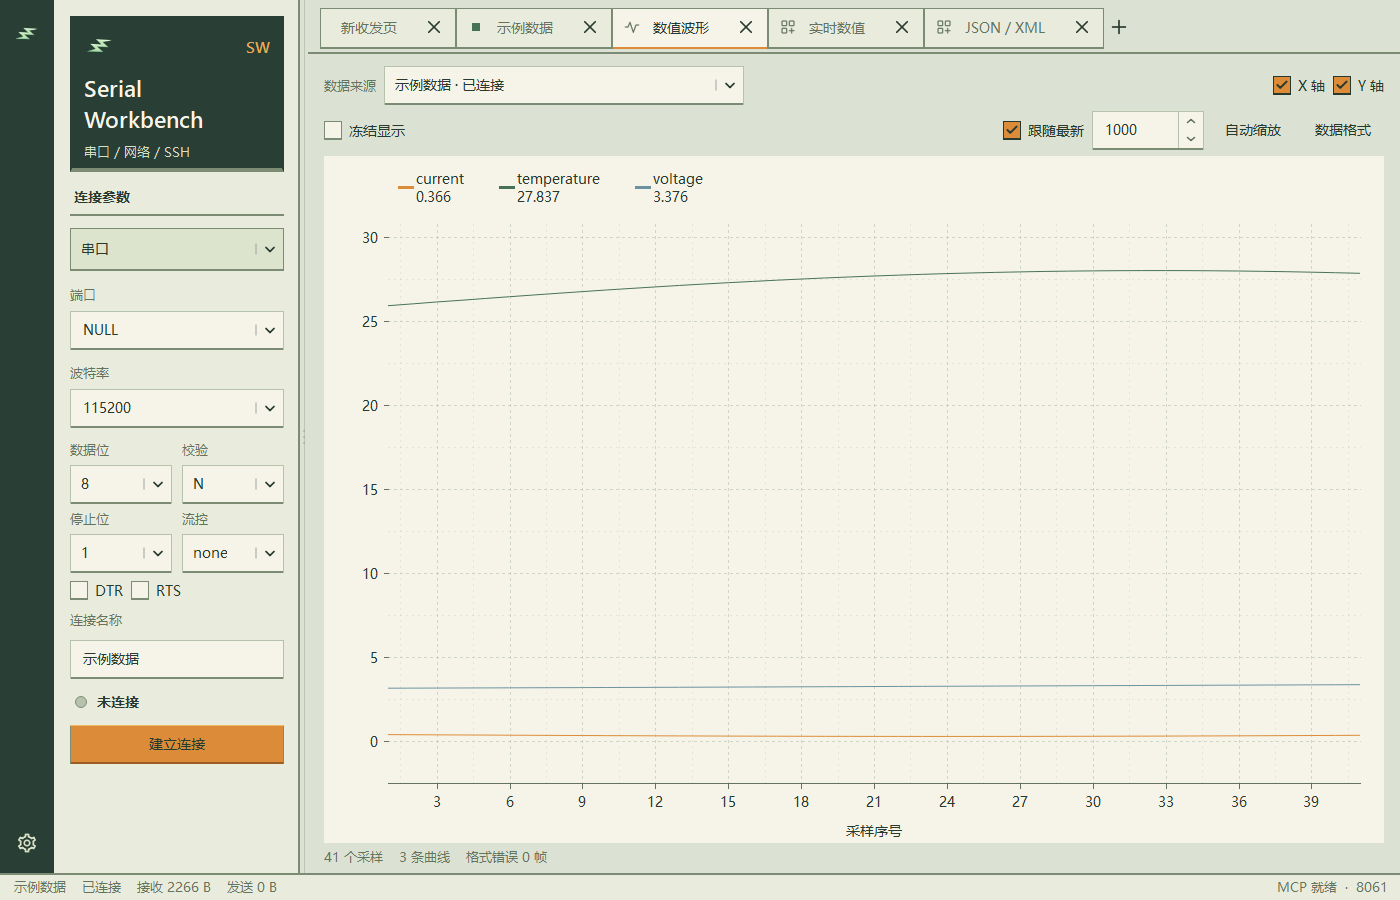
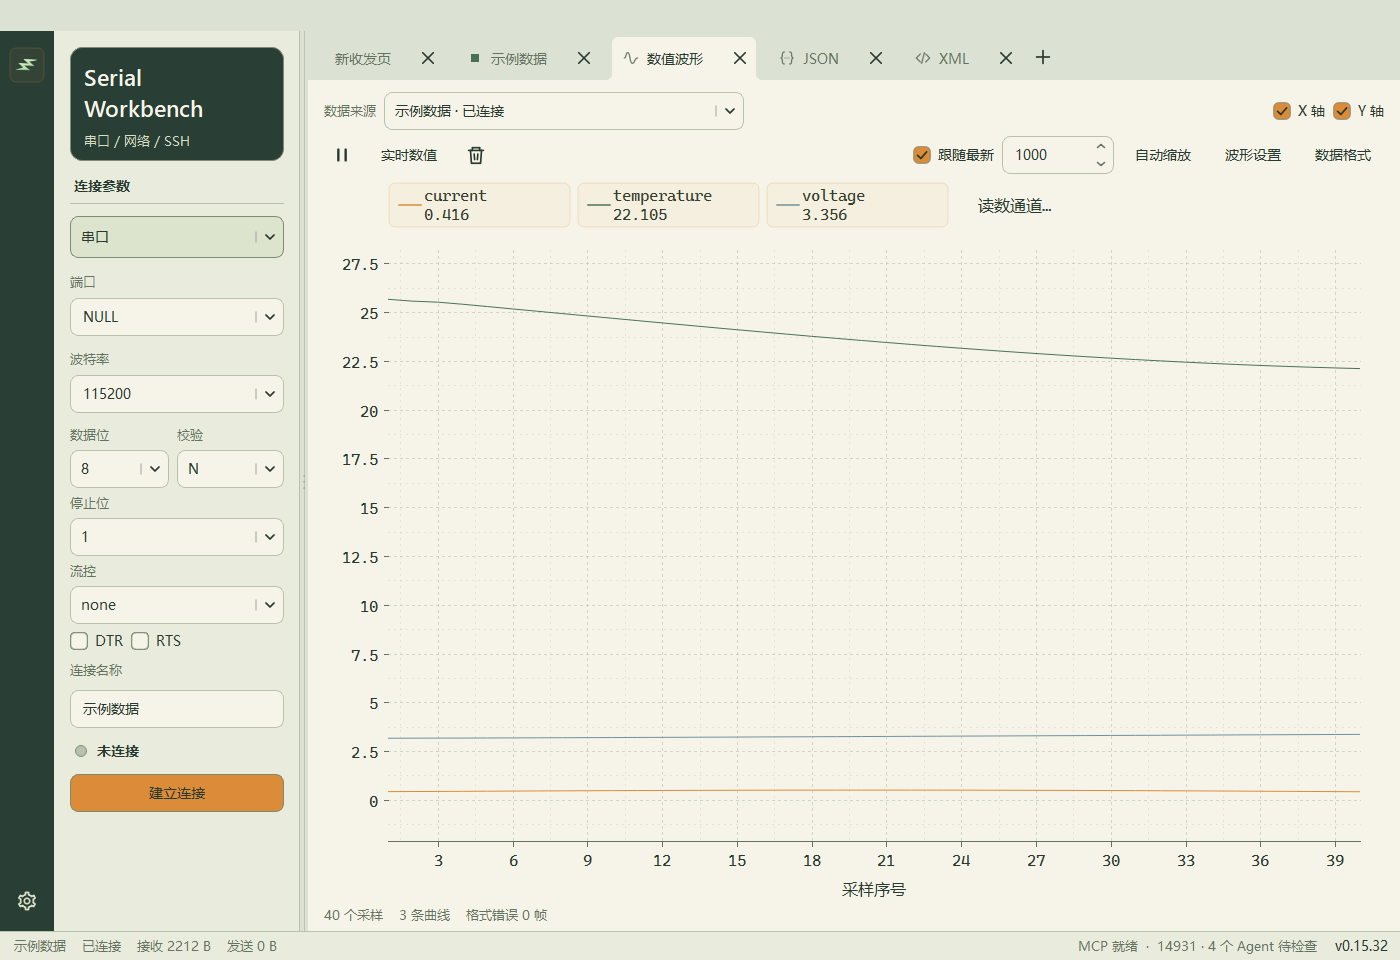
Clarify website branding and stabilize glass pointer effects

diff --git a/deploy/website/site/assets/site.css b/deploy/website/site/assets/site.css
@@ -56,6 +56,7 @@ svg.icon { width: 20px; height: 20px; fill: none; stroke: currentColor; stroke-w
 .header-inner { width: calc(100% - 48px); min-height: 76px; display: flex; align-items: center; gap: 38px; }
 .brand { display: inline-flex; align-items: center; gap: 12px; flex-shrink: 0; }
 .brand img { width: 32px; height: 32px; }
+[data-theme="dark"] .brand img { filter: brightness(1.75) saturate(.8); }
 .brand-text { display: flex; align-items: center; gap: 14px; font-family: "Bahnschrift", "Segoe UI", sans-serif; font-size: 27px; font-weight: 650; letter-spacing: -.8px; }
 .brand-text small { color: var(--muted); font: 12px "Microsoft YaHei UI", sans-serif; letter-spacing: 1px; border-left: 1px solid var(--line); padding-left: 14px; }
 .desktop-nav { display: flex; align-items: center; gap: 8px; margin-left: auto; }
@@ -86,24 +87,24 @@ h1, h2, h3 { line-height: 1.45; }
 .hero-tags span + span { border-left: 1px solid var(--line); padding-left: 18px; }
 .glass { border: 1px solid var(--glass-edge); background: linear-gradient(135deg, rgb(255 255 255 / .5), rgb(255 255 255 / .12)); box-shadow: var(--glass-shadow); backdrop-filter: blur(22px) saturate(135%); -webkit-backdrop-filter: blur(22px) saturate(135%); }
 [data-theme="dark"] .glass { background: linear-gradient(135deg, rgb(114 153 192 / .2), rgb(40 66 95 / .12)); }
-.lab-stage { --tilt-x: 0deg; --tilt-y: 0deg; position: relative; width: 100%; aspect-ratio: 600 / 560; min-width: 0; perspective: 1100px; transform: rotateX(var(--tilt-x)) rotateY(var(--tilt-y)); transition: transform .3s ease-out; }
-.lab-halo { position: absolute; width: 77%; height: 77%; left: 15%; top: 10%; background: radial-gradient(circle at 50% 50%, rgb(255 255 255 / .85), rgb(161 191 215 / .35) 45%, transparent 70%); border-radius: 50%; filter: blur(15px); }
+.lab-stage { position: relative; width: 100%; aspect-ratio: 600 / 560; min-width: 0; }
+.lab-halo { position: absolute; width: 77%; height: 77%; left: 15%; top: 10%; background: radial-gradient(circle, rgb(255 255 255 / .85), rgb(115 167 215 / .32) 45%, transparent 70%); border-radius: 50%; transform: translate(var(--glow-x, 0px), var(--glow-y, 0px)); transition: transform .18s ease-out; pointer-events: none; }
 [data-theme="dark"] .lab-halo { opacity: .22; }
-.lab-ring { position: absolute; width: 74%; aspect-ratio: 1; left: 18%; top: 11%; border-radius: 50%; border: 1px solid var(--glass-edge); box-shadow: 0 0 0 18px rgb(255 255 255 / .04), 0 0 0 19px var(--line); transform: rotateX(28deg) rotateY(-17deg); }
+.lab-ring { position: absolute; width: 74%; aspect-ratio: 1; left: 18%; top: 11%; border-radius: 50%; border: 1px solid var(--glass-edge); box-shadow: 0 0 0 18px rgb(255 255 255 / .04), 0 0 0 19px var(--line); transform: translate(var(--ring-x, 0px), var(--ring-y, 0px)) scaleY(.94); transition: transform .18s ease-out; pointer-events: none; }
 .lab-circuit { position: absolute; width: 100%; height: 100%; inset: 0; overflow: visible; }
 .lab-circuit circle { stroke: var(--blue); fill: var(--paper); opacity: .55; }
 .circuit-muted { stroke: var(--line); stroke-width: 1; }
 .circuit-signal { stroke: var(--blue); opacity: .35; stroke-width: 2; }
 .lab-slab { position: absolute; left: 12%; top: 17%; width: 59%; height: 63%; border-radius: 34px; transform: rotate(-12deg) skewY(3deg); background: linear-gradient(125deg, rgb(255 255 255 / .58), rgb(190 208 229 / .12)); }
-.lab-slab::before { content: ""; position: absolute; inset: 0; border-radius: inherit; background: radial-gradient(ellipse at var(--light-x, 25%) var(--light-y, 10%), rgb(255 255 255 / .5), transparent 65%); opacity: .6; pointer-events: none; }
+.lab-slab::before { content: ""; position: absolute; inset: 0; border-radius: inherit; background: radial-gradient(ellipse at var(--light-x, 25%) var(--light-y, 10%), rgb(255 255 255 / .95), rgb(77 143 207 / .25) 35%, transparent 65%); opacity: .8; pointer-events: none; }
 .lab-slab::after { content: ""; position: absolute; inset: 10px; border: 1px solid var(--glass-edge); opacity: .5; border-radius: 26px; }
 .slab-caption { position: absolute; top: 25px; left: 26px; font-size: 11px; color: var(--muted); letter-spacing: 2px; }
 .slab-mark { position: absolute; bottom: 22px; right: 26px; font: 12px "Bahnschrift", sans-serif; color: var(--muted); }
 .slab-contact { position: absolute; width: 8px; height: 8px; border-radius: 50%; border: 1px solid var(--accent); box-shadow: inset 0 1px 2px #fff6; }
 .contact-one { bottom: 26px; left: 24px; }
 .contact-two { top: 26px; right: 24px; }
-.lab-chip { position: absolute; left: 9%; top: 39%; width: 27%; aspect-ratio: 1; transform: rotate(-7deg); filter: drop-shadow(0 24px 20px #24476f28); }
-.chip-core { position: absolute; inset: 10px; border-radius: 18px; border: 1px solid #66819b; background: linear-gradient(140deg, #40576a, #1c3147 80%); box-shadow: inset 1px 1px 1px #b2c5d688, inset -2px -2px 2px #0e203f99; color: #f3f7fc; display: flex; flex-direction: column; align-items: center; justify-content: center; }
+.lab-chip { position: absolute; left: 9%; top: 39%; width: 27%; aspect-ratio: 1; }
+.chip-core { position: absolute; inset: 10px; border-radius: 18px; border: 1px solid #66819b; background: linear-gradient(140deg, #40576a, #1c3147 80%); box-shadow: inset 1px 1px 1px #b2c5d688, inset -2px -2px 2px #0e203f99, 0 20px 28px #24476f28; color: #f3f7fc; display: flex; flex-direction: column; align-items: center; justify-content: center; }
 .chip-core svg { width: 29px; height: 29px; margin-bottom: 6px; color: #bed4df; }
 .chip-core strong { font: 600 clamp(17px, 2vw, 28px) "Bahnschrift", sans-serif; letter-spacing: -.5px; }
 .chip-core small { font-size: 9px; color: #bfd1df; margin-top: 8px; letter-spacing: 1px; }
@@ -112,7 +113,7 @@ h1, h2, h3 { line-height: 1.45; }
 .pins-top { top: 0; }.pins-bottom { bottom: 0; }
 .pins-left, .pins-right { top: 24px; bottom: 24px; width: 12px; background: repeating-linear-gradient(0deg, #859bad 0 4px, transparent 4px 14px); }
 .pins-left { left: 0; }.pins-right { right: 0; }
-.lab-wave { position: absolute; left: 35%; top: 23%; width: 63%; border-radius: 24px; padding: 18px 20px 14px; transform: rotate(4deg); background: linear-gradient(140deg, rgb(255 255 255 / .76), rgb(255 255 255 / .27)); }
+.lab-wave { position: absolute; left: 35%; top: 23%; width: 63%; border-radius: 24px; padding: 18px 20px 14px; background: linear-gradient(140deg, rgb(255 255 255 / .84), rgb(255 255 255 / .48)); backdrop-filter: none; -webkit-backdrop-filter: none; }
 .wave-heading { display: flex; justify-content: space-between; align-items: center; gap: 8px; margin-bottom: 18px; font-size: 12px; }
 .wave-heading > span { display: flex; align-items: center; gap: 7px; }
 .wave-heading i { width: 5px; height: 5px; background: var(--blue); border-radius: 50%; }
@@ -120,14 +121,18 @@ h1, h2, h3 { line-height: 1.45; }
 .lab-wave > svg { display: block; width: 100%; }
 .wave-grid { stroke: var(--line); stroke-width: .8; }
 .wave-line { stroke: var(--blue); stroke-width: 2.4; stroke-linecap: round; }
-.wave-caption { margin-top: 12px; display: flex; justify-content: space-between; gap: 8px; color: var(--muted); font-size: 9px; }
-.lab-packet { position: absolute; width: 48%; left: 41%; top: 70%; padding: 17px 22px; border-radius: 19px; transform: rotate(-4deg); background: linear-gradient(130deg, rgb(255 255 255 / .74), rgb(255 255 255 / .22)); }
+.wave-caption { margin-top: 12px; display: flex; justify-content: space-between; gap: 8px; color: var(--muted); font-size: 10px; }
+.lab-packet { position: absolute; width: 48%; left: 41%; top: 70%; padding: 17px 22px; border-radius: 19px; background: linear-gradient(130deg, rgb(255 255 255 / .86), rgb(255 255 255 / .48)); backdrop-filter: none; -webkit-backdrop-filter: none; }
+[data-theme="dark"] .lab-wave, [data-theme="dark"] .lab-packet { background: linear-gradient(135deg, rgb(58 86 117 / .88), rgb(29 51 76 / .86)); }
+.lab-wave::before { content: ""; position: absolute; inset: 0; border-radius: inherit; pointer-events: none; background: radial-gradient(ellipse at var(--light-x, 25%) var(--light-y, 10%), rgb(255 255 255 / .85), rgb(113 167 214 / .2) 35%, transparent 65%); opacity: .9; }
+.lab-wave > * { position: relative; }
+[data-theme="dark"] .lab-wave::before { opacity: .16; }
 .lab-packet > div { display: flex; justify-content: space-between; align-items: center; }
 .packet-label { font-size: 11px; }
 .lab-packet small { font-size: 9px; color: var(--muted); }
 .lab-packet code { display: block; white-space: nowrap; margin-top: 9px; font: 12px "Cascadia Code", Consolas, monospace; color: var(--muted); }
 .lab-packet em { font-style: normal; color: var(--blue); }
-.packet-caption { font-size: 9px; color: var(--muted); }
+.packet-caption { font-size: 10px; color: var(--muted); }
 .lab-caption { position: absolute; top: 100%; margin: 28px 0 0; width: 100%; text-align: center; font-size: 11px; letter-spacing: 1px; color: var(--muted); }
 .section { margin-bottom: 76px; }
 .section-head { display: flex; align-items: baseline; justify-content: space-between; gap: 20px; margin-bottom: 26px; }
@@ -141,7 +146,7 @@ h1, h2, h3 { line-height: 1.45; }
 .project-feature { display: grid; grid-template-columns: .85fr 1.2fr; align-items: center; border: 1px solid var(--glass-edge); border-radius: 30px; background: var(--surface); overflow: hidden; box-shadow: var(--glass-shadow); backdrop-filter: blur(28px) saturate(130%); -webkit-backdrop-filter: blur(28px) saturate(130%); }
 .project-feature-text { padding: 36px; }
 .project-brand, .download-brand { display: flex; align-items: center; gap: 14px; margin-bottom: 22px; }
-.project-icon, .download-brand img { display: block; width: 48px; height: 48px; border-radius: 12px; background: #264339; padding: 7px; flex-shrink: 0; }
+.project-icon, .download-brand img { display: block; width: 48px; height: 48px; background: transparent; padding: 0; flex-shrink: 0; }
 .project-brand h2, .download-brand h2 { margin: 0; font-size: clamp(20px, 2vw, 26px); letter-spacing: -.5px; }
 .project-version, .version { color: var(--blue); font-size: 12px; font-weight: 600; }
 .project-feature p { color: var(--muted); font-size: 14px; max-width: 360px; }
@@ -149,6 +154,7 @@ h1, h2, h3 { line-height: 1.45; }
 .feature-tags span { background: var(--wash); color: var(--muted); border-radius: 6px; font-size: 12px; padding: 3px 9px; }
 .project-feature-image { padding: 44px 30px 44px 0; min-width: 0; }
 .project-feature-image img { width: 100%; display: block; border: 1px solid var(--glass-edge); border-radius: 12px; box-shadow: 0 20px 45px #182a451c; }
+.project-feature .preview-caption { max-width: none; margin: 12px 0 0; text-align: center; font-size: 11px; }
 .small-note { display: flex; align-items: start; gap: 10px; color: var(--muted); font-size: 13px; margin: 22px 0 0; }
 .small-note .icon { margin-top: 3px; width: 18px; }
 .site-footer { border-top: 1px solid var(--glass-edge); padding: 32px 0 24px; color: var(--muted); font-size: 12px; background: var(--surface); backdrop-filter: blur(24px); -webkit-backdrop-filter: blur(24px); }

diff --git a/deploy/website/site/index.html b/deploy/website/site/index.html
@@ -51,7 +51,7 @@
       </div>
       <div class="lab-chip">
         <i class="chip-pins pins-top"></i><i class="chip-pins pins-bottom"></i><i class="chip-pins pins-left"></i><i class="chip-pins pins-right"></i>
-        <div class="chip-core"><svg viewBox="0 0 32 32" fill="none" aria-hidden="true"><path d="M8 6v20h17M14 6v8h11M5 18h6m9 5v6" stroke="currentColor" stroke-width="1.5"/><circle cx="25" cy="8" r="2" fill="currentColor"/></svg><strong>lilinng</strong><small>电子与嵌入式</small></div>
+        <div class="chip-core"><svg viewBox="0 0 32 32" fill="none" aria-hidden="true"><path d="M3 18h6l4-11 6 19 4-11h6" stroke="currentColor" stroke-width="1.8" stroke-linecap="round" stroke-linejoin="round"/></svg><strong>lilinng</strong><small>电子与嵌入式</small></div>
       </div>
       <div class="lab-wave glass">
         <div class="wave-heading"><span><i></i>波形观察</span><small>信号示意</small></div>
@@ -76,7 +76,7 @@
   <div class="project-brand"><img class="project-icon" src="./assets/serial-workbench.svg" width="48" height="48" alt=""><div><h2>Serial Workbench</h2><span class="project-version" data-release-version>v0.15.32</span></div></div><p>串口、网络和 SSH 调试工具。可以查看原始数据、绘制波形，并通过 MCP 让 AI 读取当前会话。</p>
   <div class="feature-tags"><span>Qt / C++</span><span>自定义帧脚本</span><span>AI / MCP</span></div>
   <a class="button button-secondary" href="./downloads/index.html">下载 Windows 安装包 <svg class="icon " viewBox="0 0 24 24" aria-hidden="true"><path d="M12 3v12m-5-5 5 5 5-5M5 16v5h14v-5"/></svg></a>
-  </div><div class="project-feature-image"><img src="./assets/workbench-preview.png" width="1400" height="900" loading="lazy" alt="Serial Workbench 波形页面，可按通道查看数值曲线"></div></div>
+  </div><div class="project-feature-image"><img src="./assets/workbench-preview.png" width="1400" height="960" loading="lazy" alt="Serial Workbench 0.15.32 波形页面，使用演示数据展示三路曲线"><p class="preview-caption">v0.15.32 实际界面 · 演示数据</p></div></div>
   <p class="small-note"><svg class="icon " viewBox="0 0 24 24" aria-hidden="true"><rect x="6" y="6" width="12" height="12" rx="2"/><path d="M9 2v4m6-4v4M9 18v4m6-4v4M2 9h4m-4 6h4m12-6h4m-4 6h4"/></svg>Serial Workbench 从实际调试问题出发，持续更新。</p></section></div></main>
   <!-- SITE_FOOTER -->
   <div id="toast" role="status" hidden></div>

diff --git a/deploy/website/site/assets/app.js b/deploy/website/site/assets/app.js
@@ -144,32 +144,30 @@
   const motionAllowed = matchMedia('(prefers-reduced-motion: no-preference) and (pointer: fine)');
   if (stage) {
     let frame = 0;
-    let tiltX = 0;
-    let tiltY = 0;
     let lightX = 25;
     let lightY = 10;
     stage.addEventListener('pointermove', event => {
       if (!motionAllowed.matches) return;
       const rect = stage.getBoundingClientRect();
-      tiltY = ((event.clientX - rect.left) / rect.width - .5) * 5;
-      tiltX = -((event.clientY - rect.top) / rect.height - .5) * 4;
-      lightX = (event.clientX - rect.left) / rect.width * 100;
-      lightY = (event.clientY - rect.top) / rect.height * 100;
+      // The hit area never transforms. Only decoration follows the pointer.
+      lightX = Math.max(0, Math.min(100, (event.clientX - rect.left) / rect.width * 100));
+      lightY = Math.max(0, Math.min(100, (event.clientY - rect.top) / rect.height * 100));
       if (!frame) frame = requestAnimationFrame(() => {
-        stage.style.setProperty('--tilt-x', tiltX + 'deg');
-        stage.style.setProperty('--tilt-y', tiltY + 'deg');
         stage.style.setProperty('--light-x', lightX + '%');
         stage.style.setProperty('--light-y', lightY + '%');
+        stage.style.setProperty('--glow-x', Math.round((lightX - 50) * .6) + 'px');
+        stage.style.setProperty('--glow-y', Math.round((lightY - 50) * .5) + 'px');
+        stage.style.setProperty('--ring-x', Math.round((lightX - 50) * .16) + 'px');
+        stage.style.setProperty('--ring-y', Math.round((lightY - 50) * .12) + 'px');
         frame = 0;
       });
     });
     const resetStage = () => {
       cancelAnimationFrame(frame);
       frame = 0;
-      stage.style.setProperty('--tilt-x', '0deg');
-      stage.style.setProperty('--tilt-y', '0deg');
-      stage.style.removeProperty('--light-x');
-      stage.style.removeProperty('--light-y');
+      for (const name of ['--light-x', '--light-y', '--glow-x', '--glow-y', '--ring-x', '--ring-y']) {
+        stage.style.removeProperty(name);
+      }
     };
     stage.addEventListener('pointerleave', resetStage);
     motionAllowed.addEventListener('change', resetStage);

diff --git a/deploy/website/site/projects/index.html b/deploy/website/site/projects/index.html
@@ -29,7 +29,7 @@
   <div class="project-brand"><img class="project-icon" src="../assets/serial-workbench.svg" width="48" height="48" alt=""><div><h2>Serial Workbench</h2><span class="project-version" data-release-version>v0.15.32</span></div></div><p>串口、网络和 SSH 调试工具。可以查看原始数据、绘制波形，并通过 MCP 让 AI 读取当前会话。</p>
   <div class="feature-tags"><span>Qt / C++</span><span>自定义帧脚本</span><span>AI / MCP</span></div>
   <a class="button button-secondary" href="../downloads/index.html">下载 Windows 安装包 <svg class="icon " viewBox="0 0 24 24" aria-hidden="true"><path d="M12 3v12m-5-5 5 5 5-5M5 16v5h14v-5"/></svg></a>
-  </div><div class="project-feature-image"><img src="../assets/workbench-preview.png" width="1400" height="900" loading="lazy" alt="Serial Workbench 波形页面，可按通道查看数值曲线"></div></div>
+  </div><div class="project-feature-image"><img src="../assets/workbench-preview.png" width="1400" height="960" loading="lazy" alt="Serial Workbench 0.15.32 波形页面，使用演示数据展示三路曲线"><p class="preview-caption">v0.15.32 实际界面 · 演示数据</p></div></div>
   <div class="download-help"><div><h3>为什么做它</h3><p>调试时经常要在终端、波形和解析工具之间切换。我把它们放进同一个工作台，共用一条连接。</p></div><div><h3>看看源码</h3><p>项目使用 Qt / C++，采用 Apache-2.0 许可证。<a class="text-link" href="https://github.com/lilinng-163/serial-workbench" target="_blank" rel="noopener noreferrer">在 GitHub 查看源码</a></p></div></div></section></div></main>
   <!-- SITE_FOOTER -->
   <div id="toast" role="status" hidden></div>

diff --git a/deploy/website/remote_deploy.py b/deploy/website/remote_deploy.py
@@ -44,17 +44,13 @@ def prepare(payload: Path) -> None:
     files = {}
     for name, encoded in bundle['files'].items():
         path = PurePosixPath(name)
-        if path.is_absolute() or '..' in path.parts or path.suffix not in {'.html', '.css', '.js', '.svg', '.txt'}:
+        if path.is_absolute() or '..' in path.parts or path.suffix not in {'.html', '.css', '.js', '.svg', '.png', '.txt'}:
             raise ValueError(f'Invalid static asset path: {name}')
         files[name] = base64.b64decode(encoded, validate=True)
     for name in ('index.html', 'projects/index.html', 'downloads/index.html', 'about/index.html', '404.html'):
         text = files[name].decode('utf-8')
         if 'https://beian.miit.gov.cn/' not in text or '公安备案办理中' not in text:
             raise ValueError(f'Missing registration footer: {name}')
-
-    image = source / 'assets/workbench-preview.9c2a8cfd07.png'
-    if digest(image) != bundle['image_sha256']:
-        raise ValueError('Existing preview image differs from the reviewed source')
 
     # Copy downloads and old hashed assets as well, so cached pages remain usable.
     shutil.copytree(source, destination, symlinks=True)
@@ -65,10 +61,7 @@ def prepare(payload: Path) -> None:
         target.parent.mkdir(parents=True, exist_ok=True)
         target.write_bytes(data)
         target.chmod(0o644)
-    shutil.copyfile(image, destination / 'assets/workbench-preview.png')
-    (destination / 'assets/workbench-preview.png').chmod(0o644)
     hashes = {name: digest(destination / name) for name in files}
-    hashes['assets/workbench-preview.png'] = bundle['image_sha256']
     data = {'release': release, 'previous': previous, 'hashes': hashes, 'activated': False}
     RECORDS.mkdir(exist_ok=True)
     record.write_text(json.dumps(data, indent=2) + '\n', encoding='utf-8')

diff --git a/deploy/website/build.py b/deploy/website/build.py
@@ -61,7 +61,7 @@ def build(output: Path) -> None:
     if not config['icp_number'].strip():
         raise ValueError('ICP registration number must not be empty')
     assets = {}
-    for filename in ('site.css', 'app.js'):
+    for filename in ('site.css', 'app.js', 'favicon.svg', 'serial-workbench.svg', 'workbench-preview.png'):
         data = (source / 'assets' / filename).read_bytes()
         stem, extension = filename.rsplit('.', 1)
         assets[filename] = f'{stem}.{hashlib.sha256(data).hexdigest()[:12]}.{extension}'

diff --git a/docs/DEVELOPMENT_LOG.md b/docs/DEVELOPMENT_LOG.md
@@ -2,6 +2,16 @@
 
 每项任务完成或代理交接前，在本文件顶部新增记录。保持简洁，写事实与准确停点，不把聊天全文放进仓库。
 
+## 2026-10-19 — 网站图标、动效清晰度与实际软件截图
+
+- 执行者：Codex；分支 `codex/website-ui-20261019`，起点 `1bcc969`。
+- 用户目标：网站标志含义不明，软件标志需透明底；跟随鼠标的图形模糊、浅色效果弱并上下跳动；软件展示图需更新。
+- 改动：网站标志改为“芯片＋波形”，去掉软件图标的绿色 CSS 底板及内边距。鼠标命中区域不再做 3D 变换，卡片、芯片和文字取消旋转，前景玻璃取消模糊；仅背景光晕、装饰环和高光跟随指针，浅色增加蓝色折光对比。首页和项目页换用正式 v0.15.32 程序新捕获的 1400×960 波形界面，注明演示数据。SVG 和 PNG 与 CSS/JS 一样使用内容摘要文件名。
+- 验证：构建、JS 语法和资源链接检查通过；浏览器在四角依次触发鼠标移动，stage/wave/packet 的位置尺寸保持一致，stage transform 始终为 none，高光坐标正常改变；浅深主题确认软件图标背景为 rgba(0,0,0,0)、padding 为 0，展示图为 1400×960。正式程序截图使用独立设置和端口，截图完成后停止自建预览实例，用户的 MCP 程序及 SSH 会话保留。
+- 部署：通过 Serial Workbench MCP 上传并校验完整 PNG 与静态资源，原子切换到 `releases/20261019-icons-motion`；线上 10 个文件逐字节匹配构建，自定义 404 与 v0.15.32 更新清单通过核验，原站保留。证据在 `build/website-icons-20261019/`。
+- 剩余：公安备案号仍待取得；版本同步机制保持运行。没有修改桌面程序或重新发布安装包。
+- 提交：独立网站分支留档，不合并应用主线。
+
 ## 2026-10-19 — 透明实验室玻璃主题与持续版本同步
 
 - 执行者：Codex；分支 `codex/website-ui-20261019`，起点 `24e5216`。

diff --git a/deploy/website/DESIGN.md b/deploy/website/DESIGN.md
@@ -30,6 +30,6 @@
 
 玻璃需要可辨识的背景透射、柔化、内侧高光、外沿细边与接触阴影。导航、主视觉、产品展示的玻璃厚度和圆角不同。文字区保持足够不透明度，透明只用于层次，不牺牲阅读。
 
-桌面指针移动仅轻微调整主视觉高光与倾角；手机不启用跟随。首次进入使用一次短淡入；尊重减少动态效果的系统设置。所有必需信息、导航及备案信息不依赖动画或 JavaScript。
+桌面指针移动仅调整背景光环和玻璃高光。鼠标参照区域、文字、芯片和波形卡片保持固定，不对文字做倾斜或透视变换，避免模糊与边界反馈导致跳动；手机不启用跟随。首次进入使用一次短淡入；尊重减少动态效果的系统设置。所有必需信息、导航及备案信息不依赖动画或 JavaScript。
 
 二级页面沿用同一玻璃空间，避免首页与下载、项目、关于页面各自为政。手机将双栏改为单栏，玻璃仪器缩放但不横向溢出。

diff --git a/deploy/website/README.md b/deploy/website/README.md
@@ -11,7 +11,9 @@ python deploy/website/build.py --output build/website-preview
 python -m http.server 8026 --bind 127.0.0.1 --directory build/website-preview
 ```
 
-打开 `http://127.0.0.1:8026/`。CSS 和 JavaScript 按内容摘要生成文件名，避免旧缓存混入新页面。备案区域在构建时写入 HTML，关闭 JavaScript 后仍可见。
+打开 `http://127.0.0.1:8026/`。CSS、JavaScript、SVG 标志和软件展示 PNG 均按内容摘要生成文件名，避免旧缓存混入新页面。备案区域在构建时写入 HTML，关闭 JavaScript 后仍可见。
+
+当前软件展示图来自正式 v0.15.32 程序，以独立设置、`--demo --view waveform --mcp-port 0 --screenshot ...` 捕获 1400×960 实际界面；页面明确标注演示数据。更新展示图时同步修改版本标注、图片尺寸和替代文本，再重新构建。
 
 ## 备案信息
 
